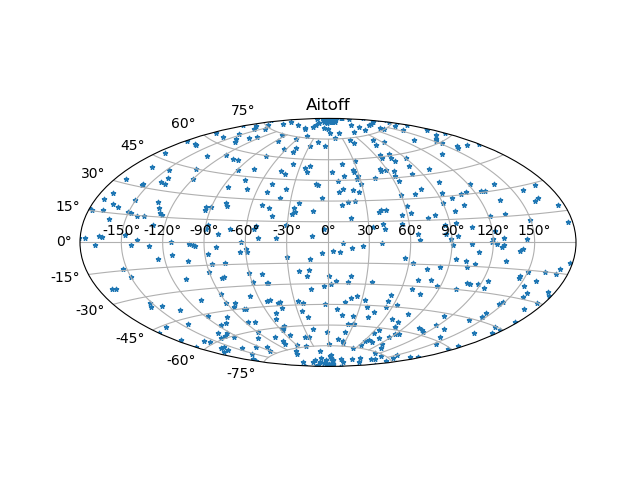
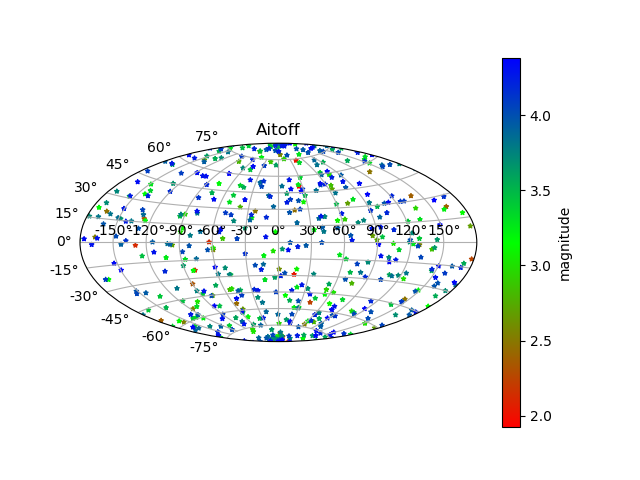
map seen from different galactic civilizations finished

Changed region(s): [[0.0625, 0.0938, 0.9062, 0.9062], [0.25, 0.75, 0.2812, 0.7812]]

diff --git a/eppur.py b/eppur.py
@@ -88,6 +88,19 @@ max_vel = np.max(data_masked['radial_velocity'])
 ## Images showing how the sky will look around some of the famous stars
 # creating the targets
 data_1K = data[:1000]
+min_mag = np.min(data_1K['phot_g_mean_mag'])
+max_mag = np.max(data_1K['phot_g_mean_mag'])
+
+# Here I define my color map
+colors = [(1, 0, 0), (0, 1, 0),(0, 0, 1)]
+n_bin = 1000  # Discretizes the interpolation into bins
+# Fewer bins will result in "coarser" colomap interpolation
+cmap_name = 'my_list'
+my_cm = mcol.LinearSegmentedColormap.from_list(cmap_name, colors, N=n_bin)
+normalize = mcol.Normalize(vmin=min_mag,vmax=max_mag)
+mappable = cm.ScalarMappable(norm=normalize, cmap = my_cm)
+mappable.set_array([])
+
 # to do the offsets, I'll follow this:
 # https://docs.astropy.org/en/stable/coordinates/matchsep.html
 # For this, I'll chose the three brightest stars seen from earth
@@ -110,7 +123,9 @@ plt.title("Aitoff")
 plt.grid(True)
 # s:The marker size in points**2
 # alpha: The alpha blending value, between 0 (transparent) and 1 (opaque).
-plt.scatter(data_1K['Sirius l'], data_1K['Sirius b'],marker='*', s=10., alpha=1)
+plt.scatter(data_1K['Sirius l'], data_1K['Sirius b'],marker='*',\
+c=mappable.to_rgba(data_1K['phot_g_mean_mag']), s=10., alpha=1)
+plt.colorbar(mappable, label="magnitude")
 plt.savefig("1K_brigtest_sources_Sirius.png")
 
 # http://simbad.u-strasbg.fr/simbad/sim-id?Ident=canopus&submit=submit+id
@@ -130,7 +145,9 @@ plt.title("Aitoff")
 plt.grid(True)
 # s:The marker size in points**2
 # alpha: The alpha blending value, between 0 (transparent) and 1 (opaque).
-plt.scatter(data_1K['Canopus l'], data_1K['Canopus b'],marker='*', s=10., alpha=1)
+plt.scatter(data_1K['Canopus l'], data_1K['Canopus b'],marker='*',\
+c=mappable.to_rgba(data_1K['phot_g_mean_mag']) ,s=10., alpha=1)
+plt.colorbar(mappable, label="magnitude")
 plt.savefig("1K_brigtest_sources_Canopus.png")
 
 # http://simbad.u-strasbg.fr/simbad/sim-id?Ident=Rigil+Kentaurus&submit=submit+id
@@ -150,5 +167,10 @@ plt.title("Aitoff")
 plt.grid(True)
 # s:The marker size in points**2
 # alpha: The alpha blending value, between 0 (transparent) and 1 (opaque).
-plt.scatter(data_1K['rigil l'], data_1K['rigil b'],marker='*', s=10., alpha=1)
+plt.scatter(data_1K['rigil l'], data_1K['rigil b'],marker='*',\
+c=mappable.to_rgba(data_1K['phot_g_mean_mag']), s=10., alpha=1)
+plt.colorbar(mappable, label="magnitude")
 plt.savefig("1K_brigtest_sources_Rigil_Kentaurus.png")
+# phot_g_mean_mag : G-band mean magnitude (float, Magnitude[mag])
+# Mean magnitude in the G band. This is computed from the G-band mean
+# flux applying the magnitude zero-point in the Vega scale.
